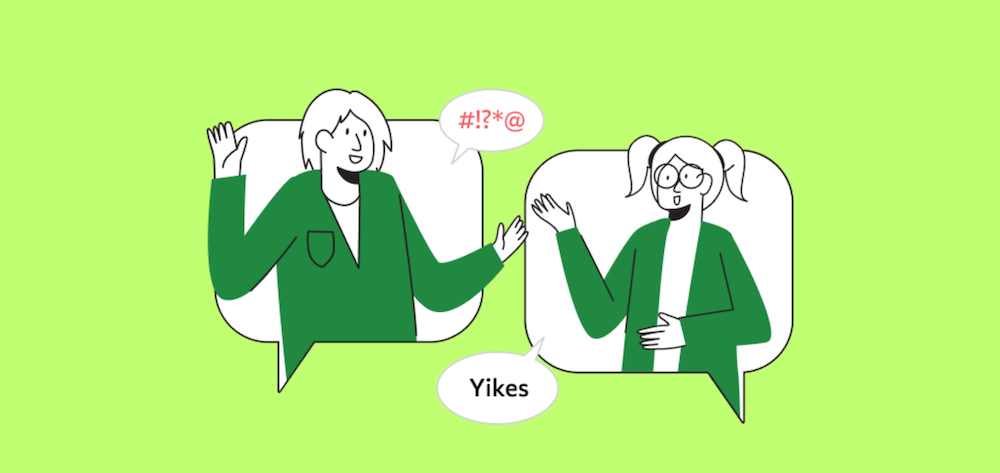
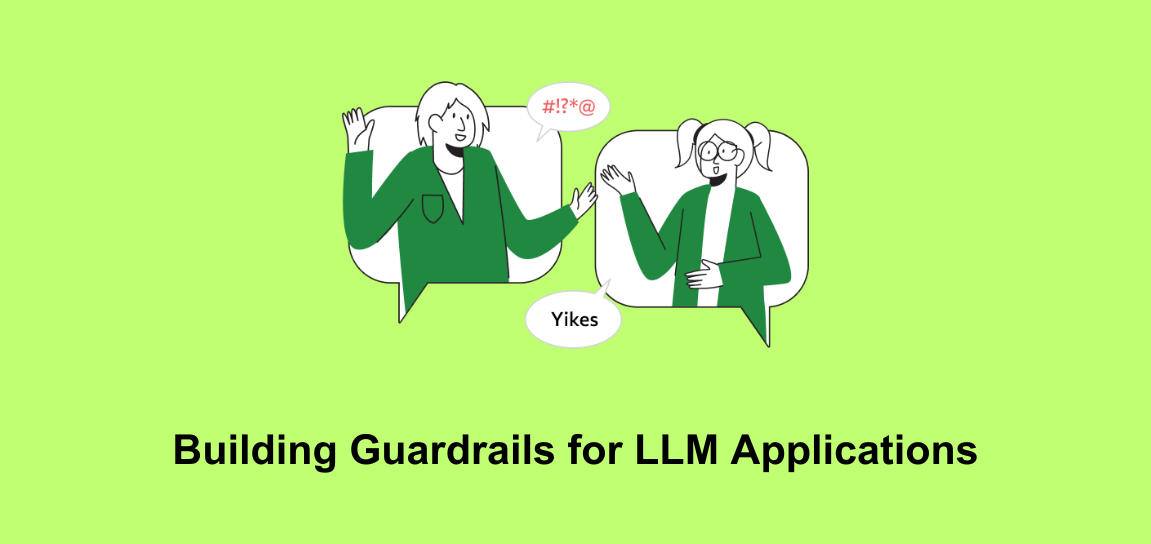
added new cover pic

Changed region(s): [[0.155, 0.148, 0.868, 0.9175]]

diff --git a/content/posts/toxic-content-classifier/index.md b/content/posts/toxic-content-classifier/index.md
@@ -74,6 +74,9 @@ Llama Guard is a fine-tuned model that takes both input and output from an LLM a
 
 NeMo serves as an intermediary layer to enhance control and safety in LLM applications. When a customer’s prompt is received, NeMo converts it into an embedding vector, then applies a K-nearest neighbors (KNN) approach to match it with stored vectors representing standard user inputs (canonical forms). This retrieves the embeddings most similar to the prompt, which NeMo uses to guide output generation from the corresponding canonical form. Throughout this process, NeMo can use the LLM to produce safe responses as specified by the Colang program. Additionally, NeMo includes pre-built moderation tools, such as fact-checking, hallucination prevention, and content moderation, to further safeguard outputs.
 
+{{< figure src="/posts/toxic-content-classifier/images/nemo.png" attr="Nvidia Nemo Guardrails Framework ([Dong, Y. et al. 2024](https://arxiv.org/html/2402.01822v1))" align=center target="_blank" >}}
+
+
 ## Objective
 The goal of this work was to examine whether LLM-based toxic content classifiers genuinely surpass traditional neural network classifiers in terms of accuracy.
 
@@ -81,7 +84,7 @@ The goal of this work was to examine whether LLM-based toxic content classifiers
 I evaluated the performance of three binary classifiers:
 1. Llama3 7B with in-context-learning (ICL)
 2. Llama Guard 3 7B 
-3. A feed-forward neural network trained on [Wikipedia Toxic Comments](https://huggingface.co/datasets/OxAISH-AL-LLM/wiki_toxic) training dataset.
+3. Two Layer Neural Network - a feed-forward neural network trained on [Wikipedia Toxic Comments](https://huggingface.co/datasets/OxAISH-AL-LLM/wiki_toxic) training dataset.
 
 ### Dataset
 In this experiment, I used the [Wikipedia Toxic Comments](https://huggingface.co/datasets/OxAISH-AL-LLM/wiki_toxic) dataset, which includes toxic comments and hate speech from Wikipedia, with each comment labeled by humans as either 1 ("toxic") or 0 ("safe").
@@ -143,8 +146,17 @@ Below figure shows the training and validation loss for each epoch during traini
 
 {{< figure src="/posts/toxic-content-classifier/images/nn_1024_100_25_loss.png" attr="Training and validation loss during Neural Network training" align=center target="_blank" >}}
 
+After the training, the performance of the neural network was evaluated on Test Dataset.
+
 Full code is accessible here.
 
+## Evaluation
 
-### 🔗 Code
+
+## Limitations
+
+
+## Conclution
+
+## 🔗 Code
 Can be found here
